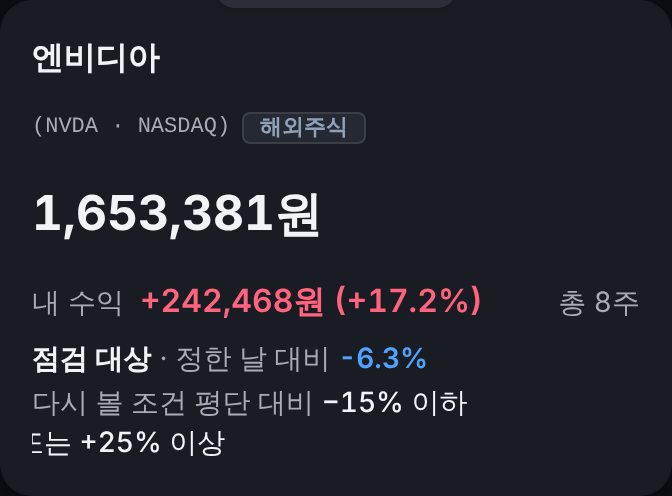
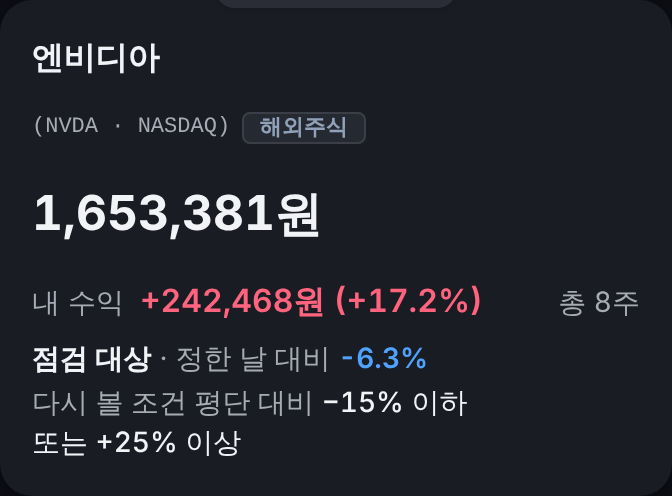
memory: #245 UI 재검수(2차) 승인

Changed region(s): [[0.0312, 0.8468, 0.375, 0.9375]]

diff --git a/issues/5.130-245-my-decision-everywhere/5.130-ui-review.md b/issues/5.130-245-my-decision-everywhere/5.130-ui-review.md
@@ -55,3 +55,19 @@
 
 ## 재검수 범위
 p1 2건 수정 커밋에서 `rv-375/360-D-05-head-엔비디아`, `rv-1280-{D,L}-02*`·`-08`·`-09` 타일만 다시 찍는다(`node tools/review-shot.mjs heads dark 375 360`, `main dark 1280`).
+
+## 재검수(2차) — issue-5.130 @0523314 (569441d·0523314), 2026-11-19
+
+### 결론: **UI 승인** (p1 0건, p2 1건 — 막지 않음)
+도구: `tools/review-shot.mjs heads dark 375 360 390 1280`, `tools/dev-fix-measure.mjs 5130 {rows 359 360 375 389 390 | tiles 1280 390 | tiles 1280(FIXED 10/15) | wn 6폭}` 직접 재실행. 1차 캡처는 `screenshots/review/r1-*`로 보존, 2차는 `rv-*` 덮어씀 + `screenshots/dev/dv-*`.
+
+| 항목 | 판정 | 근거 |
+|---|---|---|
+| p1-1 375·360 머리 셋째 줄 잘림 | **PASS** | `rv-375/360-D-05-head-엔비디아.png` — 3줄 `점검 대상 · 정한 날 대비 -6.3%` / `다시 볼 조건 평단 대비 −15% 이하` / `또는 +25% 이상`, `또` 온전, 셋째 줄 시작 = 둘째 줄 `다시` 시작(dev 실측 x 28 일치). 같은 줄 간격은 1차와 같음(1280 1줄 `… -6.3% · 다시 볼 조건 …`, 390 2줄, 머리 높이 248/228/223.8 불변). `DotLead inset`은 dot-wrap 안 옵션이라 새 패턴 아님 |
+| p1-2 PC 4개 2×2, 높이 74.8 | **PASS — 74.8이 맞는 값, ui-review 1차 기대값 69.3이 틀렸다** | 69.3은 모바일 타일 높이를 옮겨 적은 값이다. PC는 글자 크기 단계(5.114 타이포 스케일)로 1줄 타일이 74.8이다: 10/15 고정 시계 1280 3칸(`새` 칩 있음·없음 무관, X-Ray·내 자산 점검도) 모두 74.8. dev-notes의 '`새` 칩 줄 높이' 원인 설명은 틀렸다(칩 없는 X-Ray도 74.8) — 결과에는 영향 없음. 11월 1280: 588×2열, 네 타일 74.8 같음, 시장 값 `1주 코스피 -5.2% · S&P 500 -3.5%` 1줄, 외톨이 낱말·빈 타일 0, 묶음 157.7(1차 4칸 96.8 대비 +61). 390은 69.3 2×2 그대로 |
+| 390 미만 비차례 행 표시 숨김 | **PASS** | 359·360·375·389: `장기 보유`·`점검 대상` 숨김, 비차례 행 +0(삼성 63.5·KODEX 63.5·엔비디아 39.5). 390: 보임, 전 행 +0. 차례 행만 1줄 증가(360 SK·TIGER 81.0, 375 TIGER 81.0·애플 63.5, 389 TIGER 81.0) — DECISIONS 11/19 오케스트레이터 판정으로 수용. 경계 C99: 행 `max-[390px]`, 머리 조건 절·타일 `max-[360px]`(359 생략·한 줄씩 / 360 보임·2×2) |
+| 새 소식 `20261119-02` 6폭 | **PASS(p2 1건)** | 320·360·375·390·1280 제목 `주식 목록에서 내가 정한 장기 보유·` / `점검 대상이 보여요`, 설명 `… 종목 화면과 홈에` / `점검 차례로 떠요`, 430 각 1줄(`dv-*-whatsnew.png`). 어절 중간 끊김 0, `점검 대상`·`점검 차례` 갈림 0(U+00A0). C139: 낱말 전부 행·팁과 같은 뜻, 권유·금액 0 |
+
+### p2 (권고, 다음 손볼 때 — 이번 릴리스 차단 아님)
+- 새 소식 제목 첫 줄이 `장기 보유·`로 끝난다(쌍 사이 가운뎃점에서 줄바꿈). 20261118-01과 같은 꼴이라 기존 관례 범위지만, 이번 과제가 '줄 끝 가운뎃점 0'을 규칙으로 세운 만큼 고치면 더 낫다. 안: `장기 보유·점검 대상이`로 묶어 `주식 목록에서 내가 정한` / `장기 보유·점검 대상이 보여요`(U+2060을 쓰면 문자열 비교 테스트도 갱신, C114).
+- 관찰(1d9b95f부터 같음, 범위 밖): 360 2×2에서 세금 값 `1년 합산 · 기본공제` / `적용` 2줄로 아랫줄 88.5 — 기존 세금 문구라 이번 판정 대상 아님.
